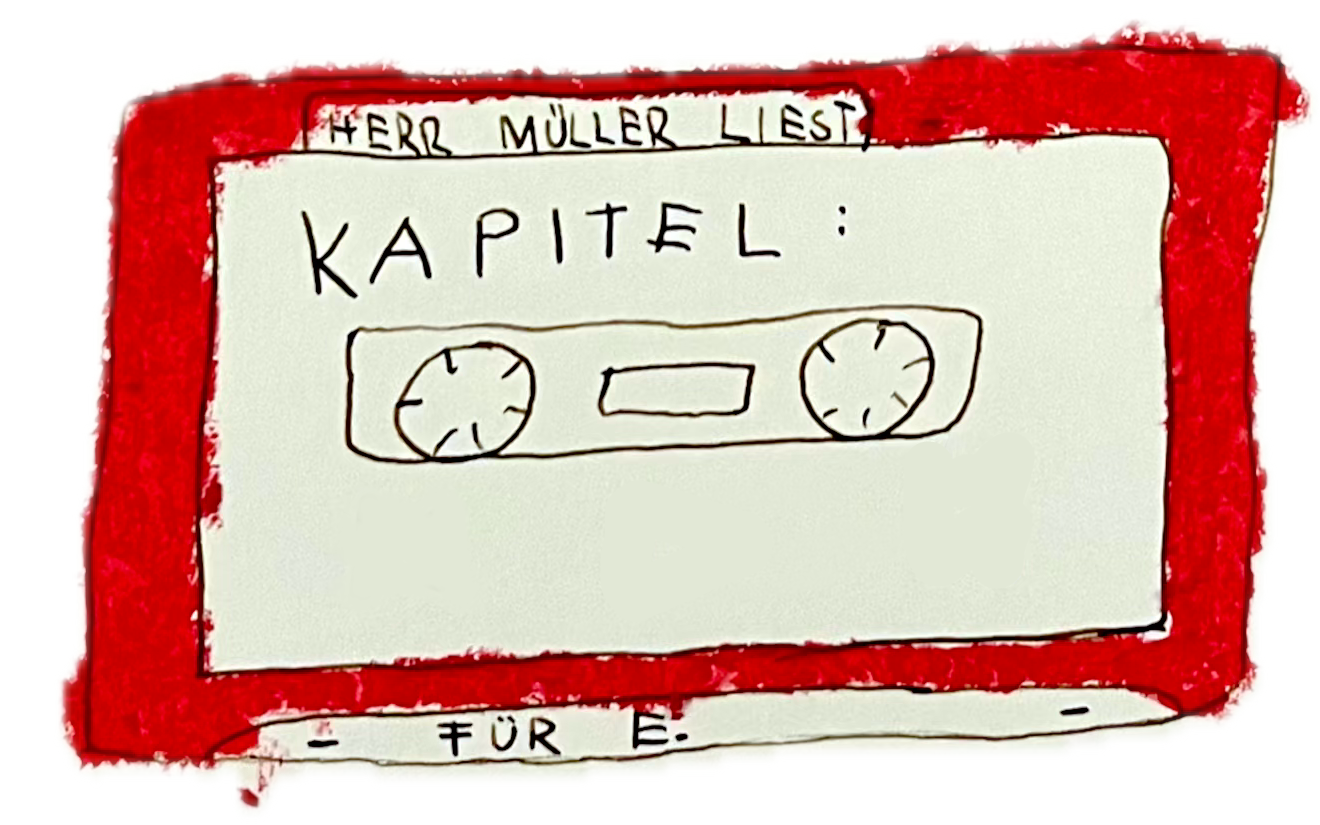
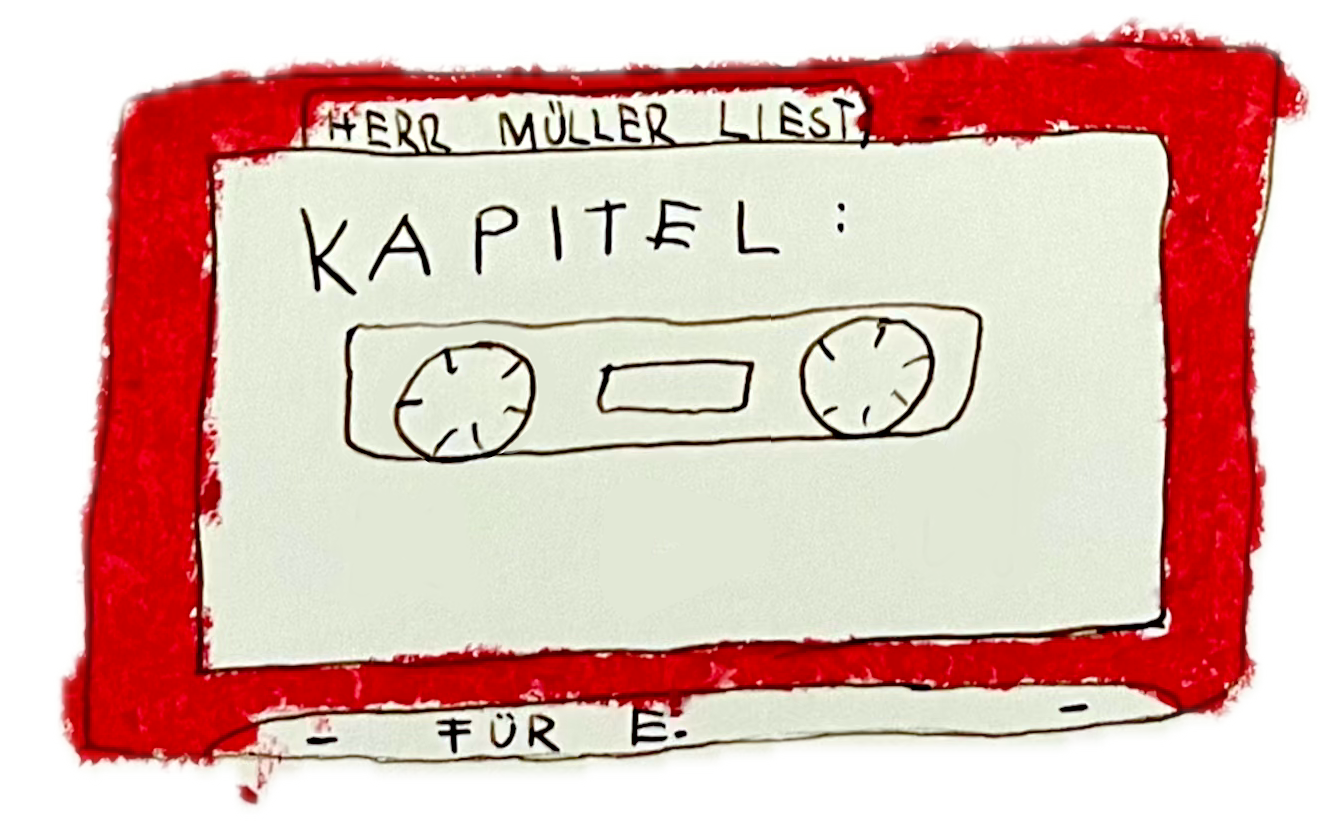
animation

diff --git a/index.html b/index.html
@@ -32,7 +32,7 @@
   <img src="roman.png" alt="" style="width: 20%">
 
   <div id="player">
-    <img src="player.png" alt="">
+    <img id ="playerbild" src="player.png" alt="">
     <button id="zurueck" aria-label="Zurück"><img src="zurück.png" alt=""></button>
     <button id="play" aria-label="Abspielen / Pause"><img src="play.png" alt=""></button>
     <button id="weiter" aria-label="Weiter"><img src="weiter.png" alt=""></button>
@@ -62,6 +62,11 @@
   $("zurueck").onclick = () => laden(i - 1, !audio.paused);
   $("weiter").onclick  = () => laden(i + 1, !audio.paused);
   audio.onended        = () => { if (i < KAPITEL.length - 1) laden(i + 1, true); };
+
+  const STILL = "player.png", LAEUFT = "player_dreh.gif";
+  new Image().src = LAEUFT;   // vorladen, damit es beim Start nicht ruckelt
+  audio.onplay  = () => $("playerbild").src = LAEUFT;
+  audio.onpause = () => $("playerbild").src = STILL;
 
   laden(0, false);
 </script>
